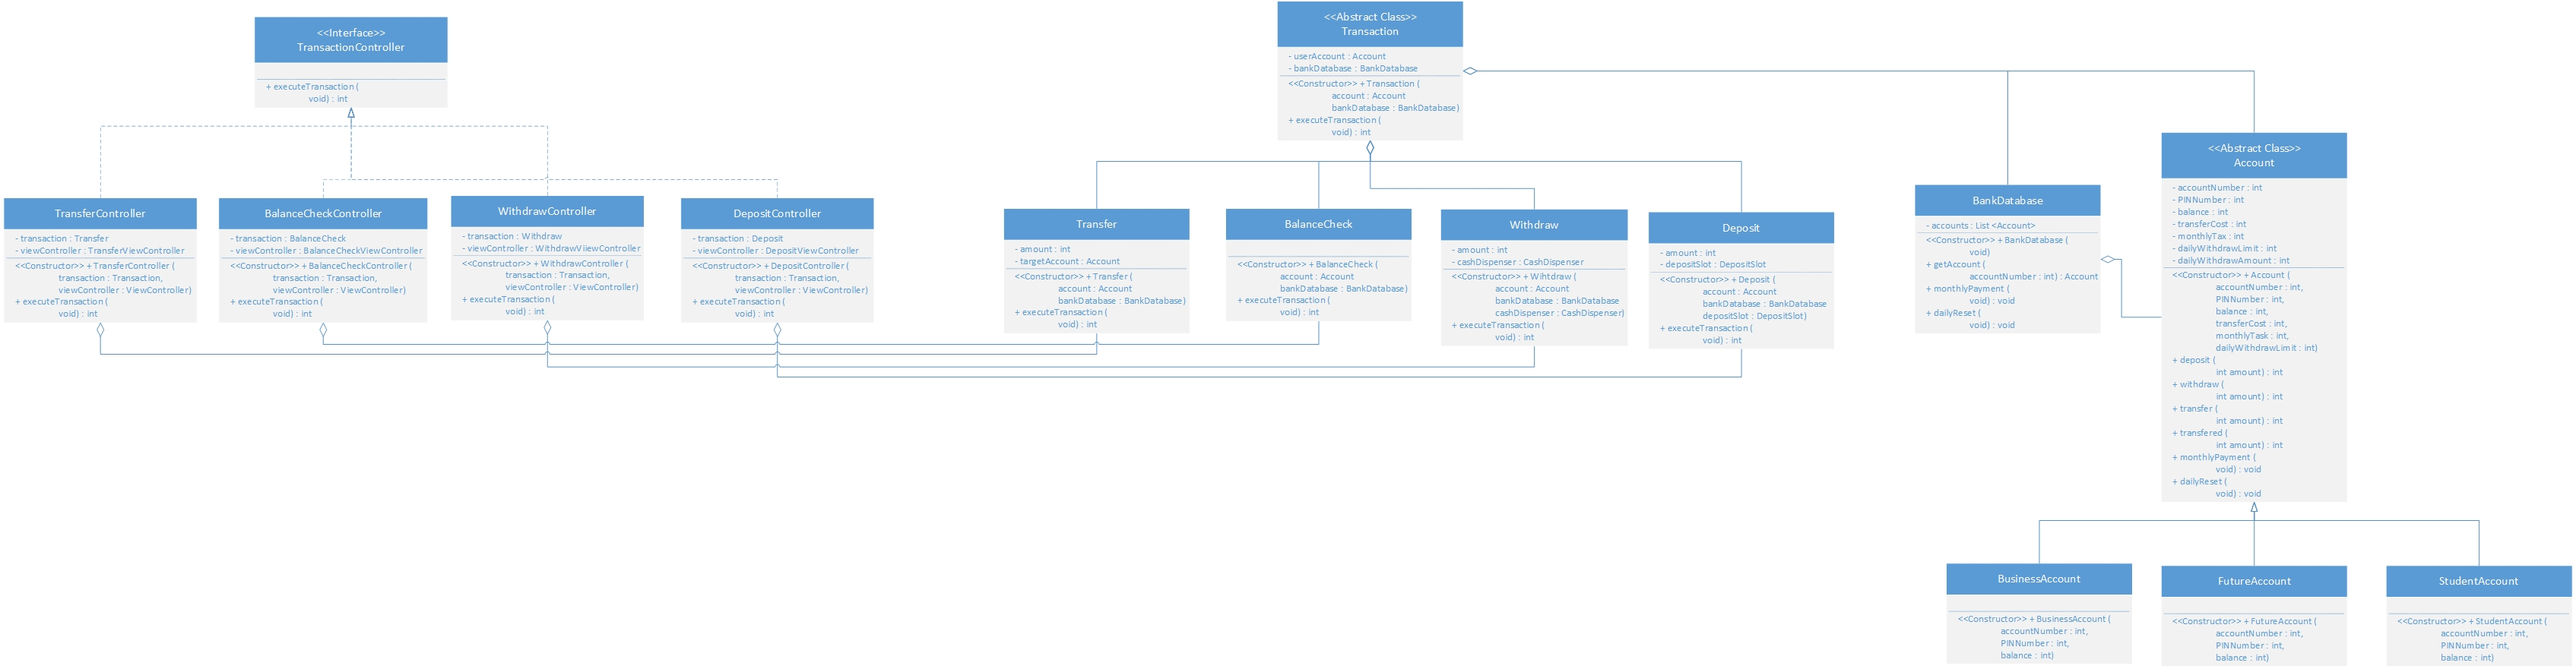
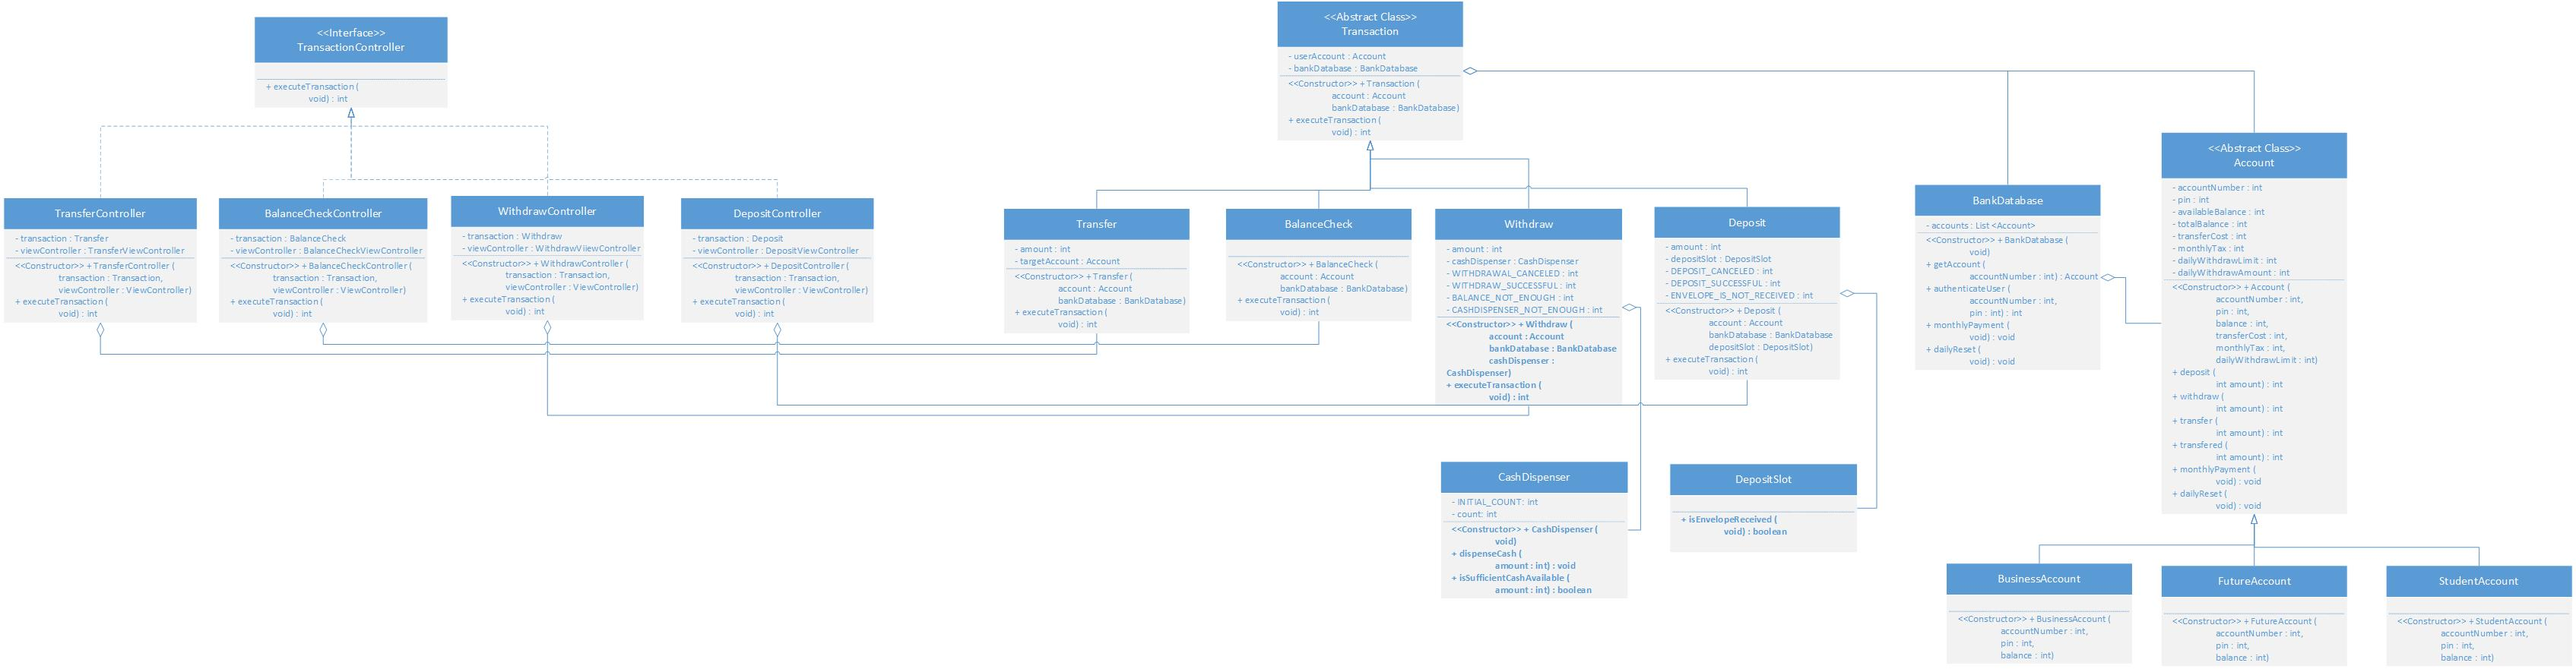
Summary (required)

diff --git a/ATM_CONSOLE_GUI/src/com/appl/atm/model/Deposit.java b/ATM_CONSOLE_GUI/src/com/appl/atm/model/Deposit.java
@@ -1,0 +1,65 @@
+/*
+ * To change this license header, choose License Headers in Project Properties.
+ * To change this template file, choose Tools | Templates
+ * and open the template in the editor.
+ */
+package com.appl.atm.model;
+
+/**
+ *
+ * @author Tio
+ */
+public class Deposit extends Transaction {
+    
+    private int amount;
+    private DepositSlot depositSlot;
+    
+    private final int DEPOSIT_SUCCESFUL = 0;
+    private final int ENVELOPE_RECEIVED = 0;
+    private final int ENVELOPE_IS_NOT_RECEIVED = -1;
+    
+    public Deposit (Account account, BankDatabase bankDatabase, DepositSlot depositSlot) {
+        super(account, bankDatabase); 
+        this.depositSlot = depositSlot;
+    }
+    
+    @Override 
+    public int executeTransaction () {
+        if ( depositSlot.isEnvelopeReceived() == ENVELOPE_RECEIVED ) {
+            Account account = getBankDatabase().getAccount(getUserAccount().getAccountNumber());
+	    account.deposit(amount);
+	    return DEPOSIT_SUCCESFUL;
+	} else {
+	    return ENVELOPE_IS_NOT_RECEIVED;
+	}
+    }
+
+    /**
+     * @return the amount
+     */
+    public int getAmount() {
+        return amount;
+    }
+
+    /**
+     * @param amount the amount to set
+     */
+    public void setAmount(int amount) {
+        this.amount = amount;
+    }
+
+    /**
+     * @return the depositSlot
+     */
+    public DepositSlot getDepositSlot() {
+        return depositSlot;
+    }
+
+    /**
+     * @param depositSlot the depositSlot to set
+     */
+    public void setDepositSlot(DepositSlot depositSlot) {
+        this.depositSlot = depositSlot;
+    }
+    
+}

diff --git a/ATM_CONSOLE_GUI/src/com/appl/atm/model/DepositSlot.java b/ATM_CONSOLE_GUI/src/com/appl/atm/model/DepositSlot.java
@@ -1,0 +1,42 @@
+/*
+ * To change this license header, choose License Headers in Project Properties.
+ * To change this template file, choose Tools | Templates
+ * and open the template in the editor.
+ */
+package com.appl.atm.model;
+
+/**
+ *
+ * @author Tio
+ */
+public class DepositSlot {
+    
+    private int envelopeAmount = 100;
+    
+    private final int ENVELOPE_RECEIVED = 0;
+    private final int ENVELOPE_NOT_RECEIVED = -1;
+    
+    public int isEnvelopeReceived () {
+        if ( envelopeAmount > 0 ) {
+            envelopeAmount -= 1;
+            return ENVELOPE_RECEIVED;
+        } else {
+            return ENVELOPE_NOT_RECEIVED;
+        }
+    }
+    
+    /**
+     * @return the envelopeAmount
+     */
+    public int getEnvelopeAmount() {
+        return envelopeAmount;
+    }
+
+    /**
+     * @param envelopeAmount the envelopeAmount to set
+     */
+    public void setEnvelopeAmount(int envelopeAmount) {
+        this.envelopeAmount = envelopeAmount;
+    }
+    
+}

diff --git a/ATM_CONSOLE_GUI/src/com/appl/atm/controller/DepositController.java b/ATM_CONSOLE_GUI/src/com/appl/atm/controller/DepositController.java
@@ -1,0 +1,32 @@
+/*
+ * To change this license header, choose License Headers in Project Properties.
+ * To change this template file, choose Tools | Templates
+ * and open the template in the editor.
+ */
+package com.appl.atm.controller;
+import com.appl.atm.model.Transaction;
+import com.appl.atm.model.Deposit;
+
+/**
+ *
+ * @author Tio
+ */
+public class DepositController implements TransactionController{
+    
+    private Deposit transaction;
+//    private DepositViewController viewController;
+    
+    public DepositController (Transaction transaction
+//            , ViewController viewController
+    ) {
+        this.transaction = (Deposit) transaction;
+//        this viewController = (DepositViewController) viewController;
+    }
+    
+    @Override
+    public int executeTransaction() {
+        
+        return 0;
+    }
+    
+}
